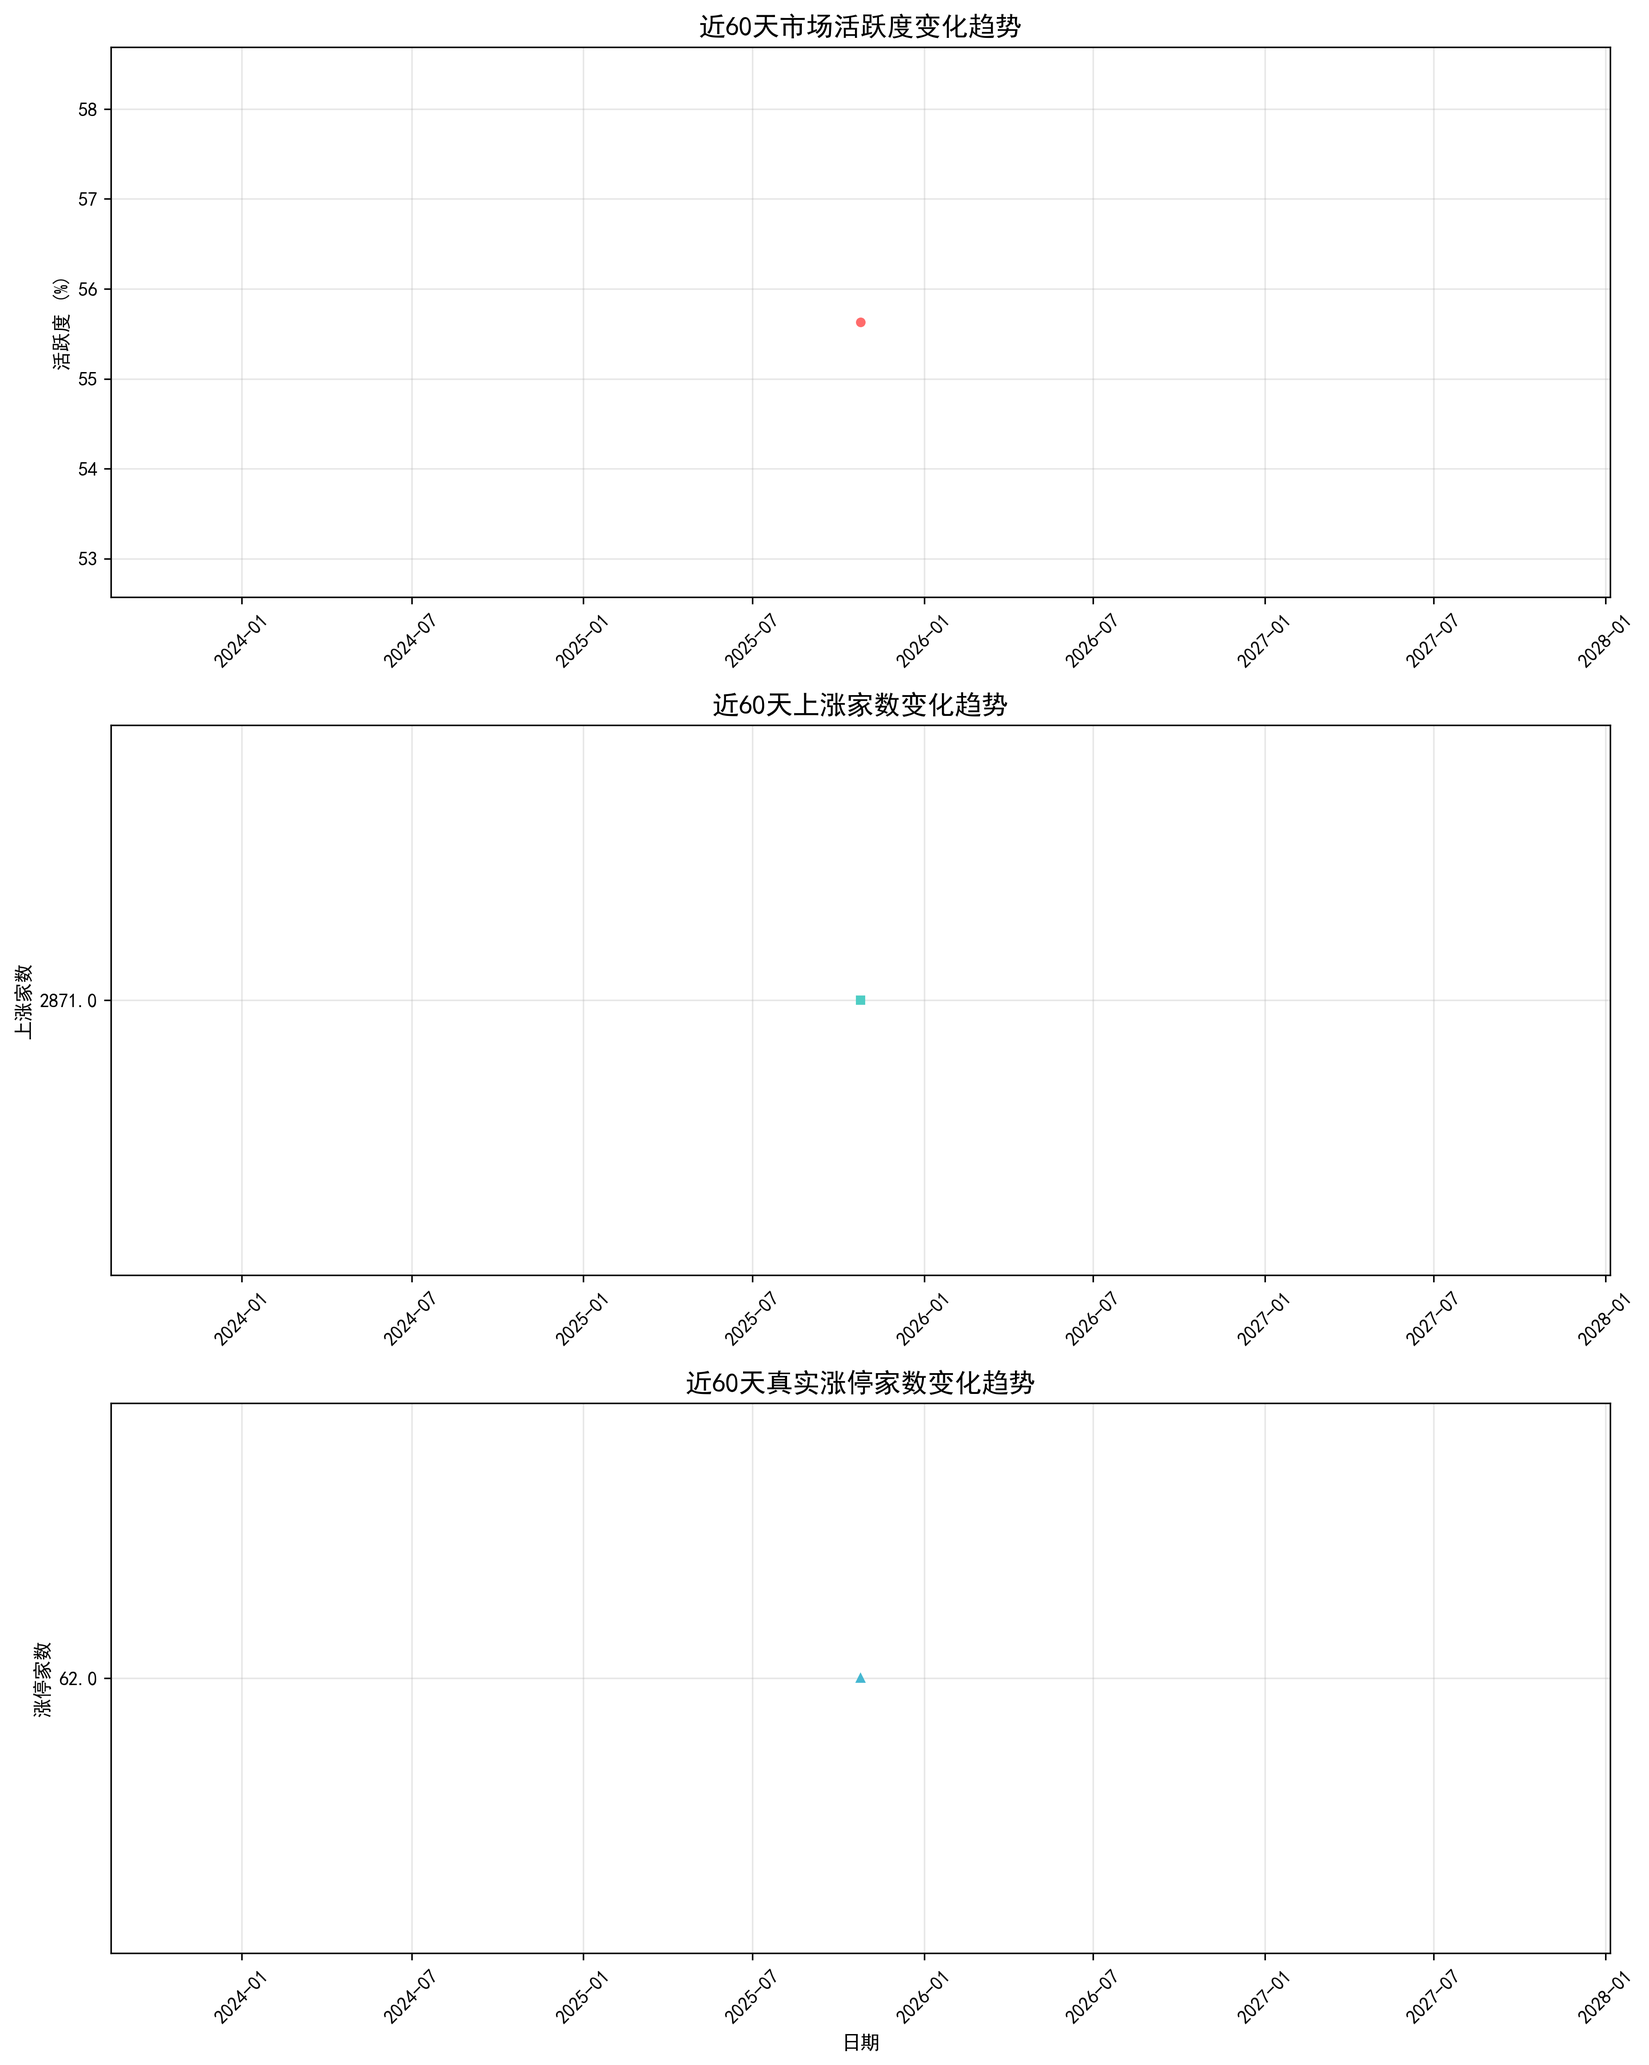
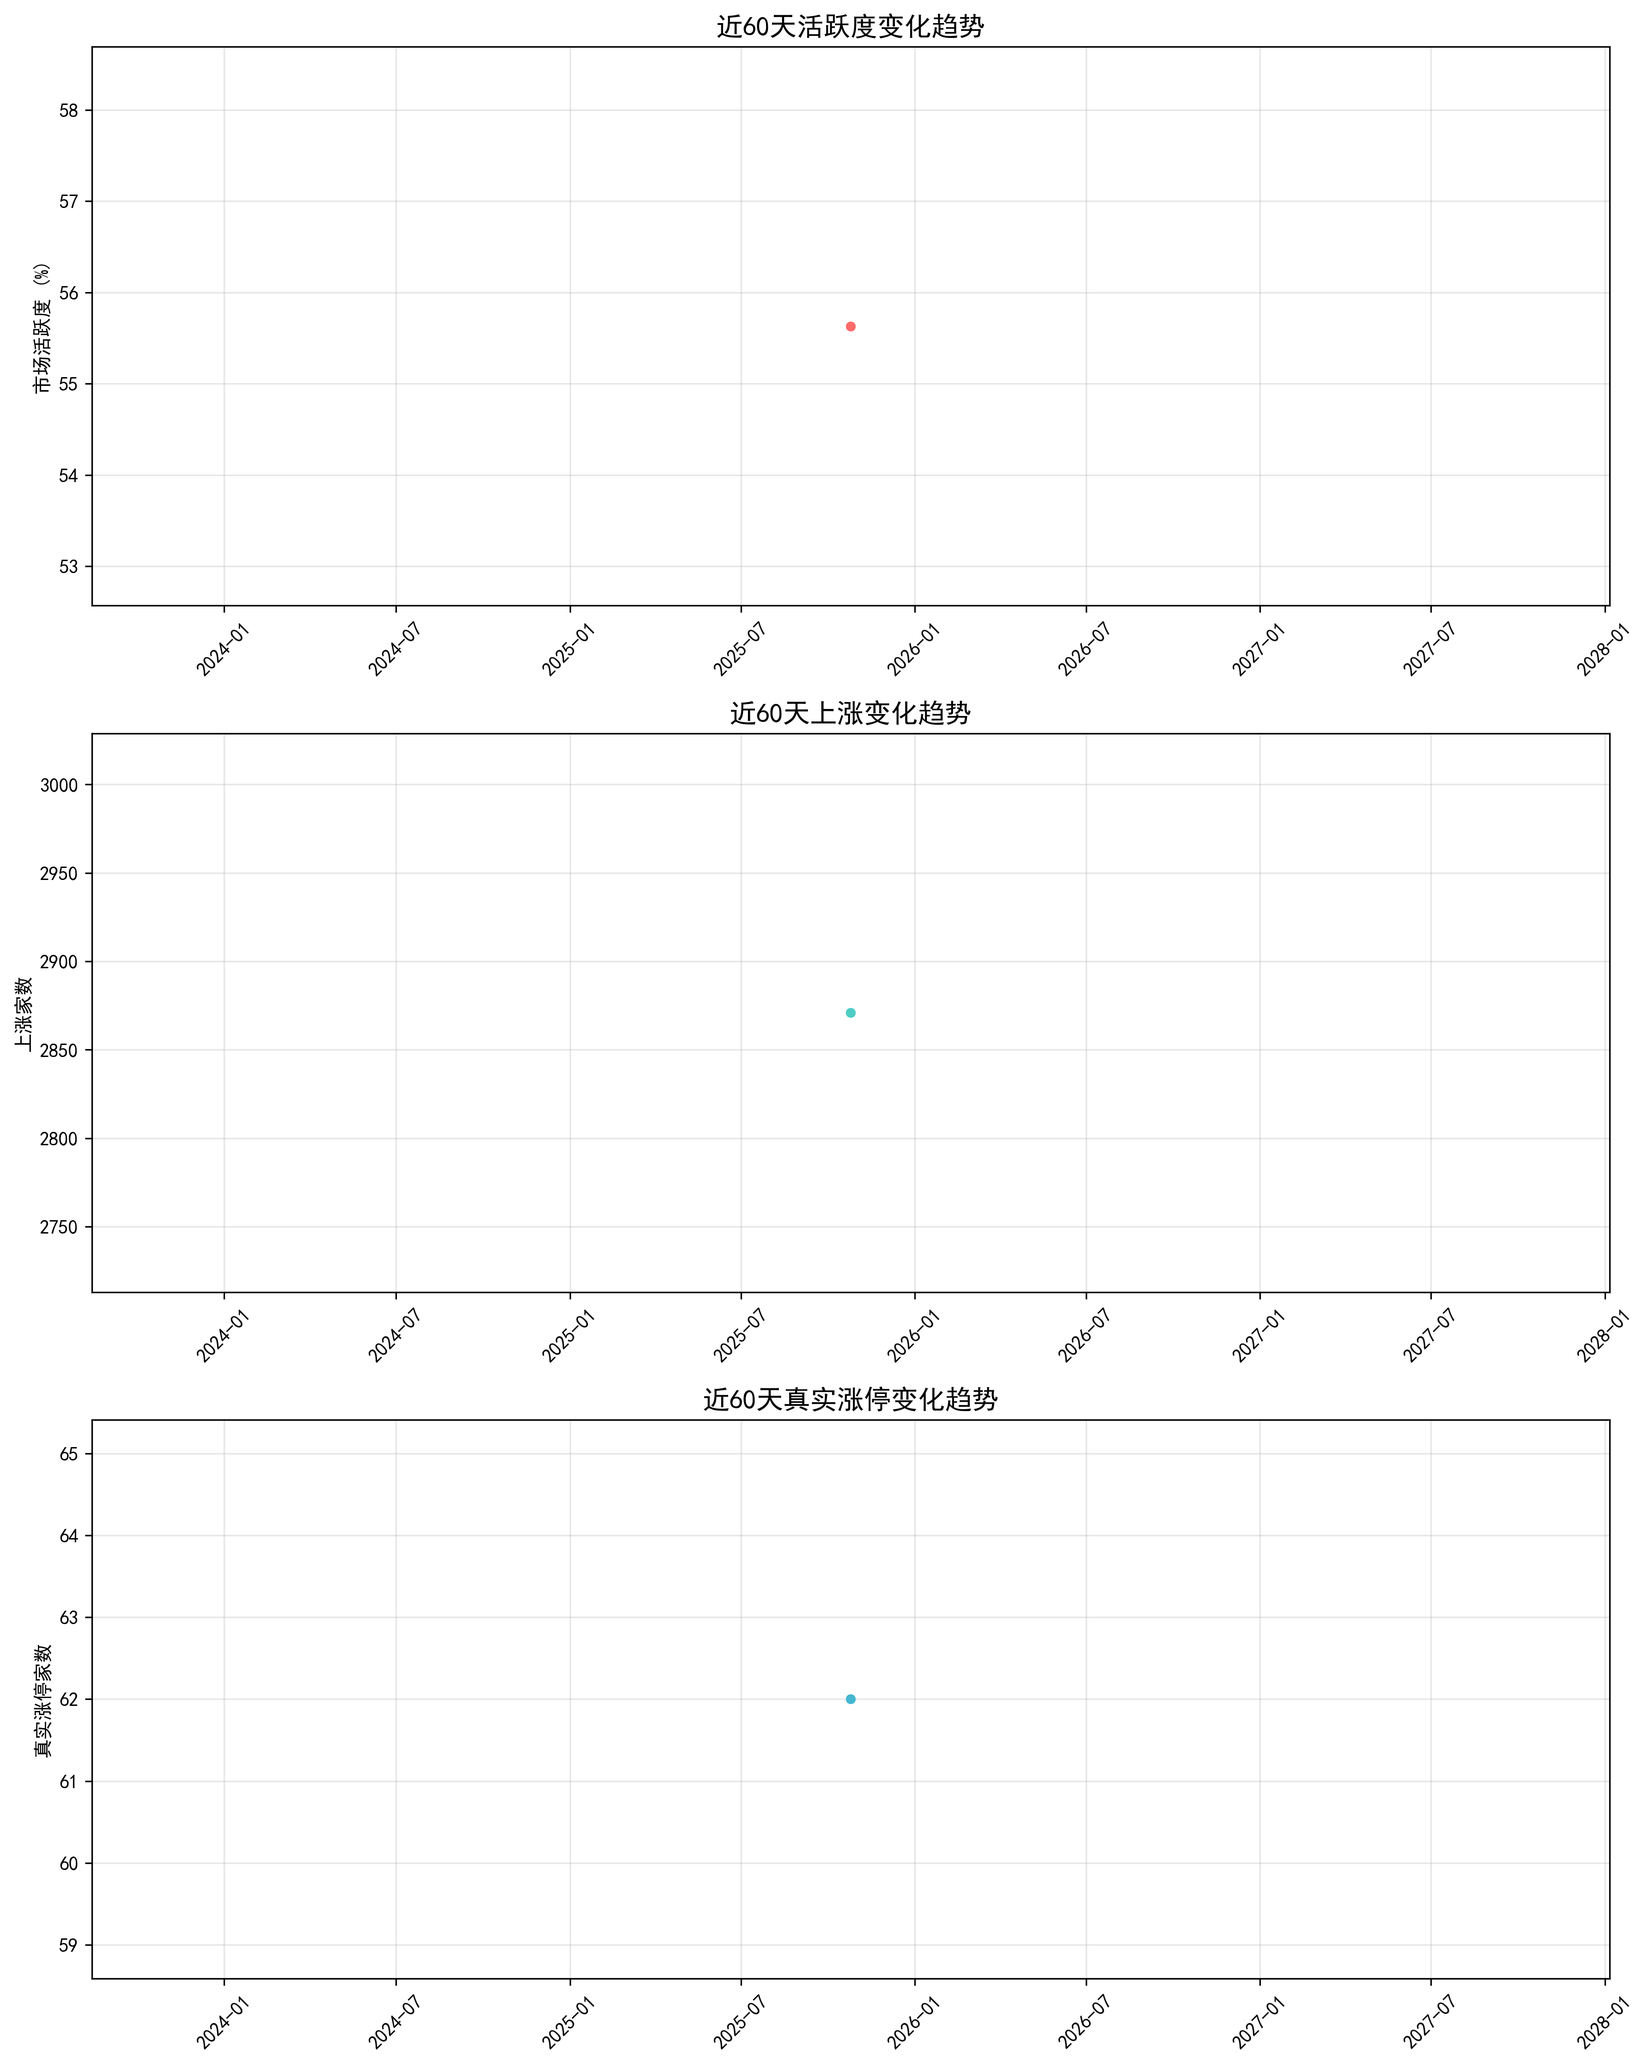
succeed

diff --git a/stock_market_analysis.py b/stock_market_analysis.py
@@ -2,229 +2,175 @@
 import akshare as ak
 import pandas as pd
 import matplotlib.pyplot as plt
-import matplotlib.font_manager as fm
-from datetime import datetime, timedelta
 import os
-import numpy as np
+from datetime import datetime, timedelta
 
-# 设置中文字体
+# 中文环境
 plt.rcParams['font.sans-serif'] = ['SimHei', 'DejaVu Sans']
 plt.rcParams['axes.unicode_minus'] = False
 
+
+# ---------------------------- 数据获取 ---------------------------- #
 def fetch_market_activity_data():
-    """获取赚钱效应分析数据"""
+    """获取当日市场赚钱效应数据"""
     try:
         df = ak.stock_market_activity_legu()
         return df
     except Exception as e:
-        print(f"获取数据失败: {e}")
+        print("获取数据失败：", e)
         return None
 
+
+# ---------------------------- 数据存储 ---------------------------- #
 def save_to_csv(df, filename=None):
-    """保存数据到CSV文件"""
+    """保存到 CSV（自动追加）"""
     if filename is None:
-        filename = f"market_activity_{datetime.now().strftime('%Y%m%d')}.csv"
-    
-    # 添加时间戳
+        filename = f"market_activity_{datetime.now():%Y%m%d}.csv"
+
+    df = df.copy()
     df['timestamp'] = datetime.now().strftime('%Y-%m-%d %H:%M:%S')
     df['date'] = datetime.now().strftime('%Y-%m-%d')
-    
-    # 如果文件已存在，则追加数据
+
     if os.path.exists(filename):
-        existing_df = pd.read_csv(filename)
-        combined_df = pd.concat([existing_df, df], ignore_index=True)
-        combined_df.to_csv(filename, index=False, encoding='utf-8-sig')
-    else:
-        df.to_csv(filename, index=False, encoding='utf-8-sig')
-    
+        old = pd.read_csv(filename)
+        df = pd.concat([old, df], ignore_index=True)
+
+    df.to_csv(filename, index=False, encoding='utf-8-sig')
     return filename
-def load_recent_data(days=60, filename_pattern="market_activity_*.csv"):
-    """加载最近N天的数据（修复版本）"""
-    csv_files = [f for f in os.listdir('.') if f.startswith('market_activity_') and f.endswith('.csv')]
-    
-    if not csv_files:
-        return None
-    
-    latest_file = max(csv_files, key=os.path.getmtime)
-    
-    try:
-        df = pd.read_csv(latest_file)
-        
-        # 确保日期列正确转换[7](@ref)
-        df['date'] = pd.to_datetime(df['date'])
-        
-        # 处理数值数据：移除百分比符号并转换为数值
-        df['value'] = df['value'].astype(str).str.replace('%', '')
-        # 使用to_numeric安全转换，错误值设为NaN[8](@ref)
-        df['value'] = pd.to_numeric(df['value'], errors='coerce')
-        
-        # 获取最近N天的数据
-        cutoff_date = datetime.now() - timedelta(days=days)
-        recent_df = df[df['date'] >= cutoff_date].copy()
-        
-        return recent_df
-    except Exception as e:
-        print(f"加载数据失败: {e}")
+
+
+# ---------------------------- 数据加载 ---------------------------- #
+def load_recent_data(days=60):
+    """加载最近 N 天数据并做类型清洗"""
+    files = [f for f in os.listdir('.') if f.startswith('market_activity_') and f.endswith('.csv')]
+    if not files:
         return None
 
+    latest = max(files, key=os.path.getmtime)
+    try:
+        df = pd.read_csv(latest)
+        df['date'] = pd.to_datetime(df['date'])
+        # 统一清洗：去 % 并转数值
+        df['value'] = df['value'].astype(str).str.replace('%', '', regex=False)
+        df['value'] = pd.to_numeric(df['value'], errors='coerce')
+        cutoff = datetime.now() - timedelta(days=days)
+        return df[df['date'] >= cutoff].copy()
+    except Exception as e:
+        print("加载历史数据失败：", e)
+        return None
+
+
+# ---------------------------- 可视化 ---------------------------- #
 def create_visualizations(df, days=60):
-    """创建三种指标的折线图"""
+    """画三张折线图：活跃度、上涨家数、真实涨停家数"""
     if df is None or df.empty:
-        print("没有可用的数据进行可视化")
-        return
-    
-    # 确保数据按日期排序
+        print("无数据可视化")
+        return None
+
     df = df.sort_values('date')
-    
-    # 创建三个子图
-    fig, (ax1, ax2, ax3) = plt.subplots(3, 1, figsize=(12, 15))
-    
-    # 1. 活跃度折线图
-    activity_data = df[df['item'] == '活跃度'].copy()
-    if not activity_data.empty:
-        activity_data['value'] = activity_data['value'].str.rstrip('%').astype(float)
-        ax1.plot(activity_data['date'], activity_data['value'], 
-                marker='o', linewidth=2, markersize=4, color='#FF6B6B')
-        ax1.set_title(f'近{days}天市场活跃度变化趋势', fontsize=14, fontweight='bold')
-        ax1.set_ylabel('活跃度 (%)')
-        ax1.grid(True, alpha=0.3)
-        ax1.tick_params(axis='x', rotation=45)
-    
-    # 2. 上涨家数折线图
-    rise_data = df[df['item'] == '上涨'].copy()
-    if not rise_data.empty:
-        ax2.plot(rise_data['date'], rise_data['value'], 
-                marker='s', linewidth=2, markersize=4, color='#4ECDC4')
-        ax2.set_title(f'近{days}天上涨家数变化趋势', fontsize=14, fontweight='bold')
-        ax2.set_ylabel('上涨家数')
-        ax2.grid(True, alpha=0.3)
-        ax2.tick_params(axis='x', rotation=45)
-    
-    # 3. 涨停家数折线图（真实涨停）
-    limit_up_data = df[df['item'] == '真实涨停'].copy()
-    if not limit_up_data.empty:
-        ax3.plot(limit_up_data['date'], limit_up_data['value'], 
-                marker='^', linewidth=2, markersize=4, color='#45B7D1')
-        ax3.set_title(f'近{days}天真实涨停家数变化趋势', fontsize=14, fontweight='bold')
-        ax3.set_ylabel('涨停家数')
-        ax3.set_xlabel('日期')
-        ax3.grid(True, alpha=0.3)
-        ax3.tick_params(axis='x', rotation=45)
-    
+    fig, axes = plt.subplots(3, 1, figsize=(12, 15))
+
+    items = [
+        ('活跃度', '市场活跃度 (%)', '#FF6B6B'),
+        ('上涨', '上涨家数', '#4ECDC4'),
+        ('真实涨停', '真实涨停家数', '#45B7D1')
+    ]
+
+    for ax, (item, ylabel, color) in zip(axes, items):
+        sub = df[df['item'] == item].copy()
+        if not sub.empty:
+            ax.plot(sub['date'], sub['value'], marker='o', linewidth=2, markersize=4, color=color)
+            ax.set_title(f'近{days}天{item}变化趋势', fontsize=14, fontweight='bold')
+            ax.set_ylabel(ylabel)
+            ax.grid(alpha=0.3)
+            ax.tick_params(axis='x', rotation=45)
+
     plt.tight_layout()
-    
-    # 保存图片
-    plot_filename = f'market_activity_trends_{days}days.png'
-    plt.savefig(plot_filename, dpi=300, bbox_inches='tight')
+    plot_file = f'market_activity_trends_{days}days.png'
+    plt.savefig(plot_file, dpi=300, bbox_inches='tight')
     plt.close()
-    
-    return plot_filename
+    return plot_file
+
+
+# ---------------------------- 情绪分析 ---------------------------- #
 def analyze_market_sentiment(df):
-    """分析市场情绪（修复版本）"""
+    """基于最新数据给出市场情绪"""
     if df is None or df.empty:
         return None
-    
-    # 确保使用最新数据
-    latest_data = df[df['date'] == df['date'].max()]
-    
+
+    latest = df[df['date'] == df['date'].max()]
     analysis = {
         'date': df['date'].max().strftime('%Y-%m-%d'),
         'total_stocks': 0,
-        'rise_ratio': 0,
-        'activity_level': 0,
+        'rise_ratio': 0.,
+        'activity_level': 0.,
         'limit_up_count': 0,
         'sentiment': '中性'
     }
-    
+
     try:
-        # 首先确保数据类型正确
-        # 将数值列从字符串转换为浮点数[6](@ref)[8](@ref)
-        for col in ['value']:
-            if col in latest_data.columns:
-                # 移除百分比符号并转换为数值
-                latest_data.loc[:, 'value'] = latest_data['value'].astype(str).str.replace('%', '').astype(float)
-        
-        # 分别提取各项数据
-        rise_data = latest_data[latest_data['item'] == '上涨']['value']
-        fall_data = latest_data[latest_data['item'] == '下跌']['value']
-        flat_data = latest_data[latest_data['item'] == '平盘']['value']
-        suspension_data = latest_data[latest_data['item'] == '停牌']['value']
-        
-        # 确保数据不为空再进行计算
-        if not rise_data.empty and not fall_data.empty and not flat_data.empty and not suspension_data.empty:
-            rise = float(rise_data.iloc
-            fall = float(fall_data.iloc
-            flat = float(flat_data.iloc
-            suspension = float(suspension_data.iloc
-            
-            total = rise + fall + flat + suspension
-            analysis['total_stocks'] = total
-            analysis['rise_ratio'] = round(rise / total * 100, 2) if total > 0 else 0
-        
-        # 获取活跃度（处理百分比）
-        activity_data = latest_data[latest_data['item'] == '活跃度']['value']
-        if not activity_data.empty:
-            analysis['activity_level'] = float(activity_data.iloc
-        
-        # 获取涨停家数
-        limit_up_data = latest_data[latest_data['item'] == '真实涨停']['value']
-        if not limit_up_data.empty:
-            analysis['limit_up_count'] = float(limit_up_data.iloc
-        
-        # 基于修复后的数据判断市场情绪
-        if analysis['rise_ratio'] > 60 and analysis['limit_up_count'] > 50:
+        rise = int(latest[latest['item'] == '上涨']['value'].iloc[0])
+        fall = int(latest[latest['item'] == '下跌']['value'].iloc[0])
+        flat = int(latest[latest['item'] == '平盘']['value'].iloc[0])
+        suspension = int(latest[latest['item'] == '停牌']['value'].iloc[0])
+        total = rise + fall + flat + suspension
+        analysis['total_stocks'] = total
+        analysis['rise_ratio'] = round(rise / total * 100, 2) if total else 0.
+
+        activity = latest[latest['item'] == '活跃度']['value']
+        if not activity.empty:
+            analysis['activity_level'] = round(float(activity.iloc[0]), 2)
+
+        limit_up = latest[latest['item'] == '真实涨停']['value']
+        if not limit_up.empty:
+            analysis['limit_up_count'] = int(limit_up.iloc[0])
+
+        # 情绪判定
+        rr = analysis['rise_ratio']
+        lu = analysis['limit_up_count']
+        if rr > 60 and lu > 50:
             analysis['sentiment'] = '强势看多'
-        elif analysis['rise_ratio'] > 50 and analysis['limit_up_count'] > 30:
+        elif rr > 50 and lu > 30:
             analysis['sentiment'] = '温和看多'
-        elif analysis['rise_ratio'] < 40 and analysis['limit_up_count'] < 20:
+        elif rr < 40 and lu < 20:
             analysis['sentiment'] = '谨慎看空'
         else:
             analysis['sentiment'] = '中性震荡'
-            
     except Exception as e:
-        print(f"分析市场情绪时出错: {e}")
-        # 打印详细错误信息便于调试
-        import traceback
-        traceback.print_exc()
-    
+        print("情绪分析出错：", e)
     return analysis
 
-def main():
-    """主函数"""
-    print("开始获取赚钱效应分析数据...")
-    
-    # 获取当前数据
-    df = fetch_market_activity_data()
-    if df is not None:
-        print("数据获取成功!")
-        print(df)
-        
-        # 保存数据
-        csv_file = save_to_csv(df)
-        print(f"数据已保存到: {csv_file}")
-        
-        # 加载最近60天数据
-        recent_df = load_recent_data(60)
-        
-        if recent_df is not None:
-            # 创建可视化图表
-            plot_file = create_visualizations(recent_df, 60)
-            print(f"可视化图表已保存到: {plot_file}")
-            
-            # 分析市场情绪
-            analysis = analyze_market_sentiment(recent_df)
-            if analysis:
-                print("\n=== 市场情绪分析 ===")
-                print(f"分析日期: {analysis['date']}")
-                print(f"总股票数量: {analysis['total_stocks']}")
-                print(f"上涨比例: {analysis['rise_ratio']}%")
-                print(f"市场活跃度: {analysis['activity_level']}")
-                print(f"真实涨停家数: {analysis['limit_up_count']}")
-                print(f"市场情绪: {analysis['sentiment']}")
-        else:
-            print("没有足够的历史数据进行可视化分析")
-    else:
-        print("数据获取失败，请检查网络连接或接口状态")
 
+# ---------------------------- 主流程 ---------------------------- #
+def main():
+    print("开始获取赚钱效应数据...")
+    df = fetch_market_activity_data()
+    if df is None:
+        print("数据获取失败，退出")
+        return
+
+    print(df.head())
+    csv_file = save_to_csv(df)
+    print("已保存 →", csv_file)
+
+    recent_df = load_recent_data(60)
+    if recent_df is not None:
+        plot_file = create_visualizations(recent_df, 60)
+        print("可视化已生成 →", plot_file)
+
+        analysis = analyze_market_sentiment(recent_df)
+        if analysis:
+            print("\n=== 市场情绪分析 ===")
+            print(f"分析日期: {analysis['date']}")
+            print(f"总股票数: {analysis['total_stocks']}")
+            print(f"上涨比例: {analysis['rise_ratio']}%")
+            print(f"市场活跃度: {analysis['activity_level']}%")
+            print(f"真实涨停家数: {analysis['limit_up_count']}")
+            print(f"市场情绪: {analysis['sentiment']}")
+    else:
+        print("历史数据不足，仅保存当日数据")
+
+
+# ---------------------------- 入口 ---------------------------- #
 if __name__ == "__main__":
     main()
